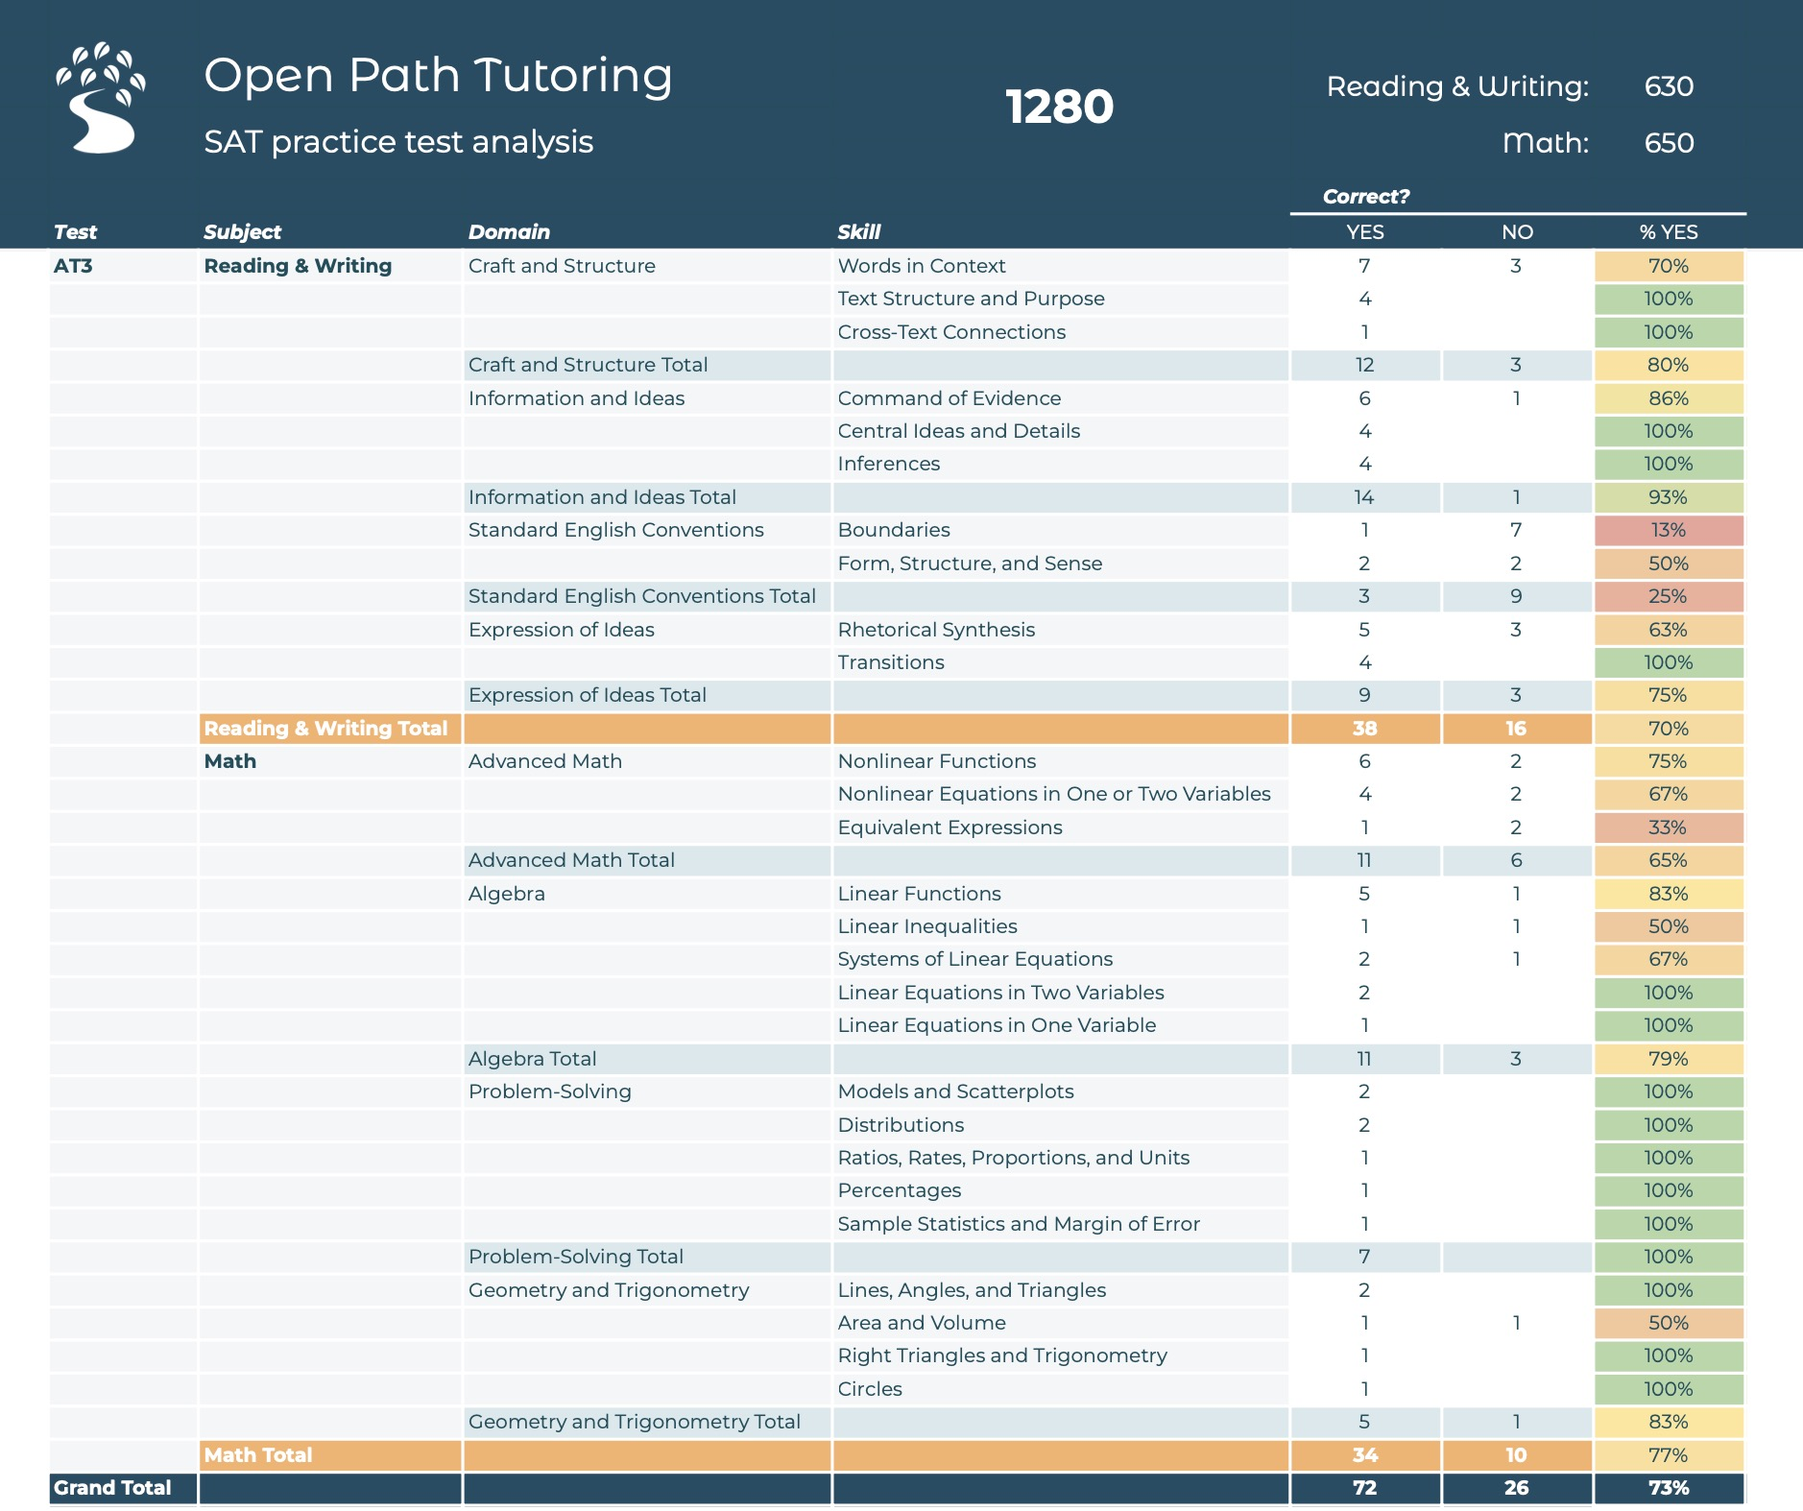
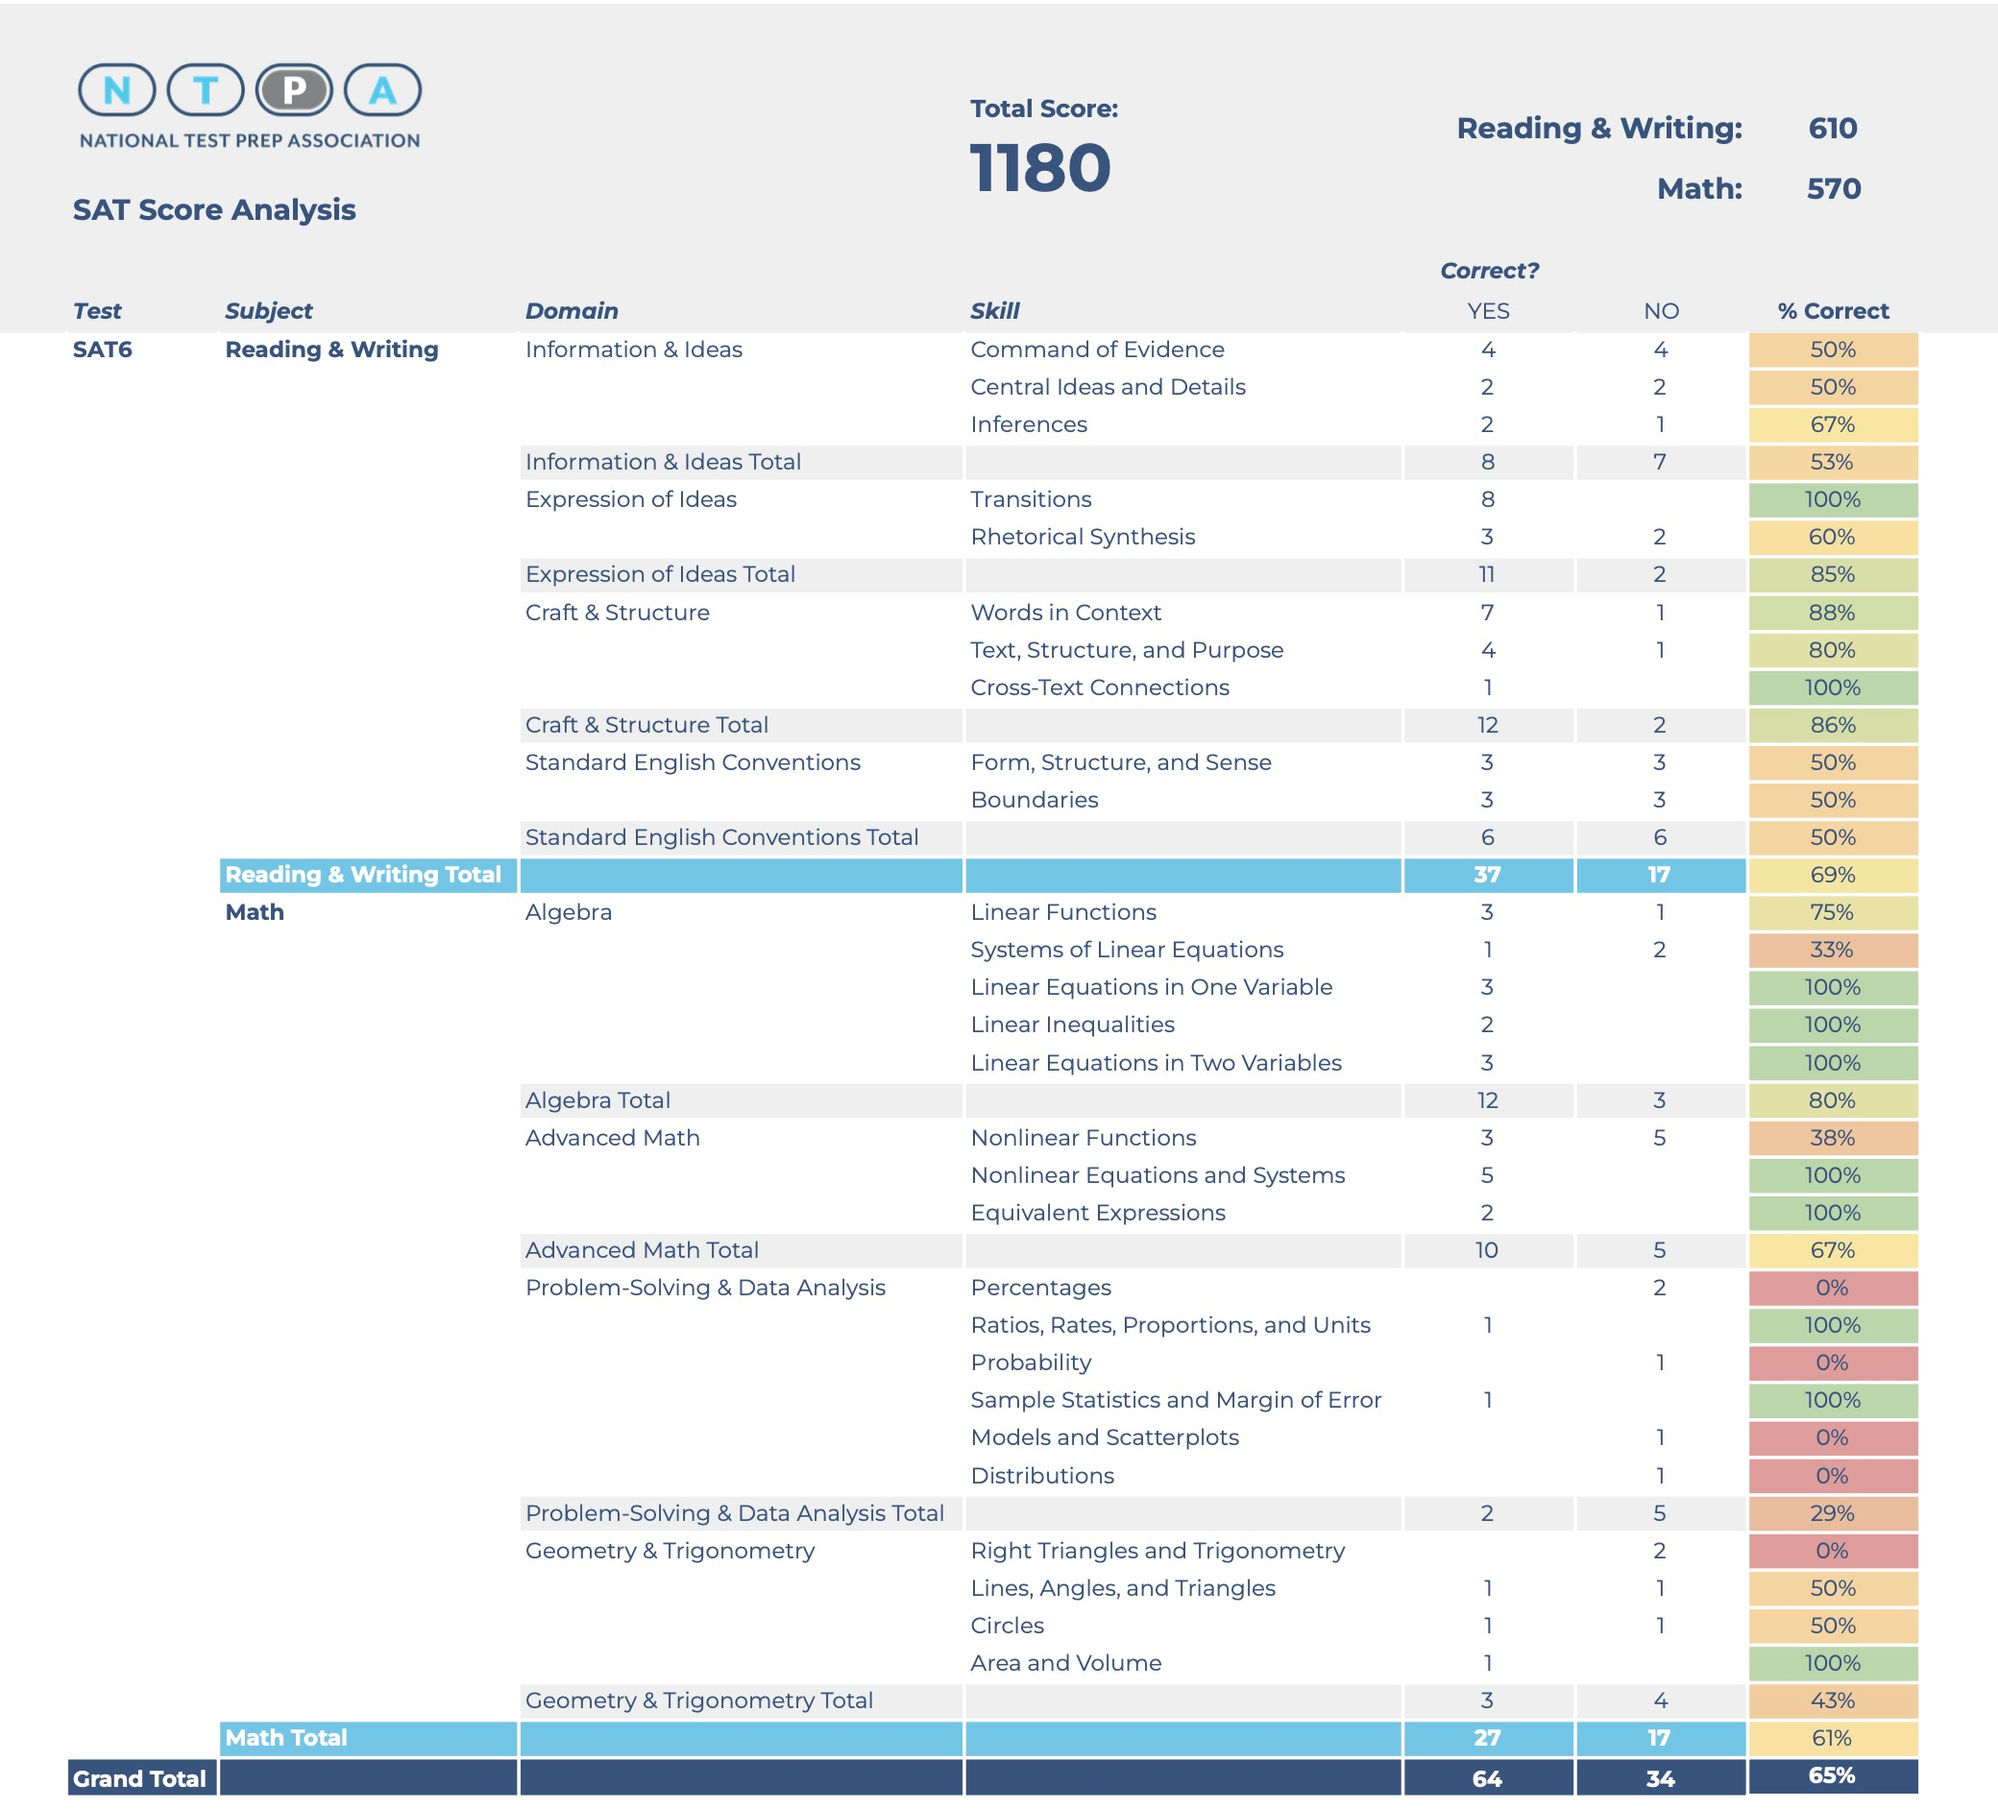
change sample img and col widths

diff --git a/app/templates/sat-report.html b/app/templates/sat-report.html
@@ -17,10 +17,10 @@
     <div class="d-block d-lg-none col-10">
       <img class="img-fluid" src="{{ url_for('static', filename='img/sample-score-analysis-sm.jpg') }}" alt="">
     </div>
-    <div class="d-none d-lg-block col-lg-5 col-xl-6 mt-3">
+    <div class="d-none d-lg-block col-lg-6 mt-3">
       <img class="img-fluid" src="{{ url_for('static', filename='img/sample-score-analysis.jpg') }}" alt="">
     </div>
-    <div class="col-12 col-sm-10 col-lg-6 col-xl-4">
+    <div class="col-12 col-sm-10 col-lg-5 col-xl-4">
       <form id="score-report-form" action="" method="post" enctype="multipart/form-data">
         <div class="row justify-content-center mt-3">
           <div class="col-12">
@@ -79,7 +79,7 @@
             {{ form.spreadsheet_url.label(class='mt-2') }}
             {{ form.spreadsheet_url }}
           </div>
-          <div id="connect-ss-div" class="col-12">
+          <div id="connect-ss-div" class="col-12 text-nowrap">
             <button id="link-ss-instructions" class="sm sec d-inline-block me-1" data-bs-toggle="modal" data-bs-target="#spreadsheet-modal" type="button">
               Connect answer analysis spreadsheet
             </button>
